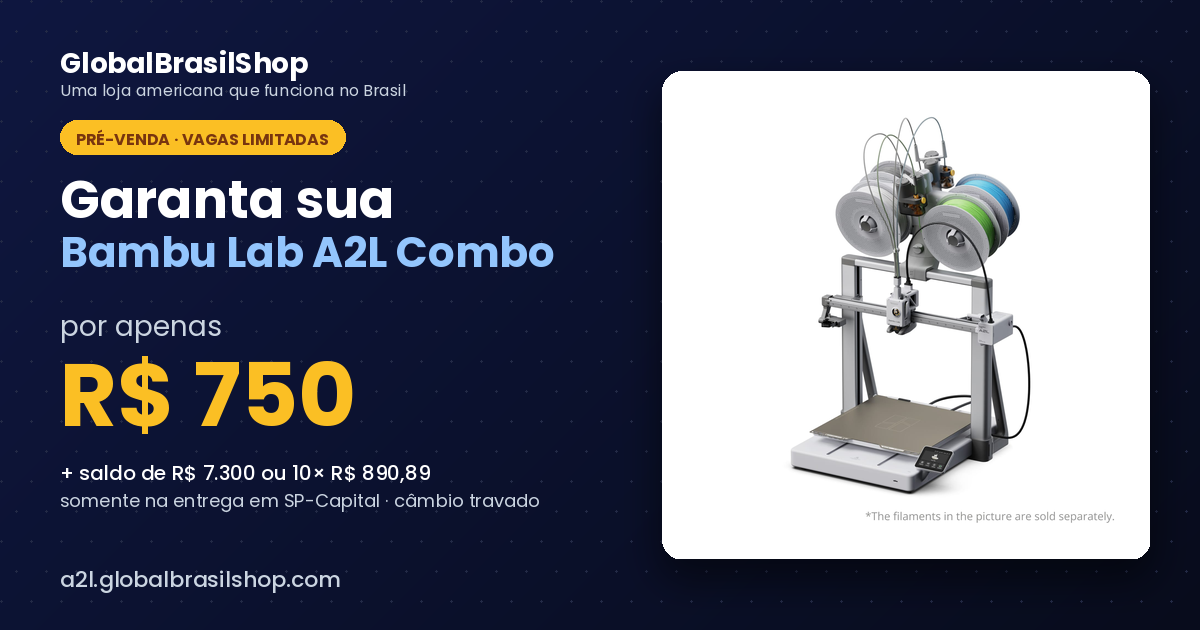
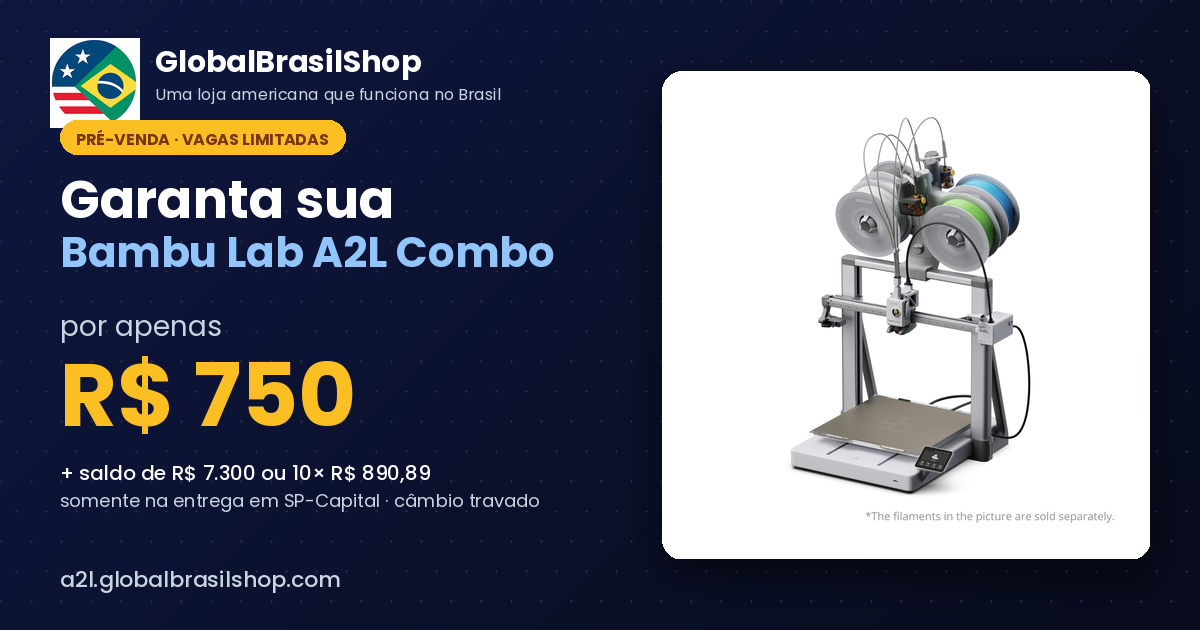
Add files via upload

Changed region(s): [[0.0308, 0.0603, 0.4008, 0.2111]]

diff --git a/index.html b/index.html
@@ -1008,7 +1008,7 @@
           <div class="carousel-stage">
             <img src="a2l_combo.jpg" alt="Bambu Lab A2L Combo com AMS Lite e 4 spools coloridos" class="carousel-slide active" />
             <img src="a2l_main.jpg" alt="Bambu Lab A2L destacando volume gigante 330×320×325 mm" class="carousel-slide" />
-            <img src="a2l_combo.jpg" alt="Sistema dual-nozzle para suportes solúveis e multi-cor limpo" class="carousel-slide" />
+            <img src="a2l_combo.jpg" alt="Volume gigante 330×320×325 mm com qualidade CoreXY em bed slinger" class="carousel-slide" />
             <img src="a2l_blade.jpg" alt="Blade Cutting Module — corte vinyl, couro, tecido (Cricut killer)" class="carousel-slide" />
           </div>
           <button class="carousel-arrow prev" aria-label="Foto anterior" type="button">‹</button>
@@ -1110,28 +1110,28 @@
       </div>
       <div class="feature-card">
         <div class="feature-icon">⚡</div>
-        <h3>Câmara totalmente fechada</h3>
-        <p>Estrutura fechada com vidro frontal — temperatura interna controlada pra imprimir ABS, ASA e materiais de engenharia sem warping. Bonita até pra deixar na sala.</p>
+        <h3>Adaptive Vibration Compensation</h3>
+        <p>Open frame com 2 granular dampers integrados no chassi pra absorver vibração — qualidade de impressão CoreXY em um bed slinger acessível. Pra PLA, PETG e materiais não-engenharia.</p>
       </div>
       <div class="feature-card">
         <div class="feature-icon">🔧</div>
         <h3>Multi-cor com AMS</h3>
-        <p>Compatível com o Sistema Bambu AMS — imprima até 16 cores numa única peça (com 4 unidades AMS conectadas). Troca automática, secagem integrada de filamento.</p>
+        <p>Compatível com até 4 unidades AMS + 1 AMS Lite — máximo de 19 cores simultâneas na mesma peça. O Combo já vem com 1 AMS Lite incluso. Troca automática e detecção de runout/tangled spool.</p>
       </div>
       <div class="feature-card">
         <div class="feature-icon">📐</div>
         <h3>Confiabilidade nível farm</h3>
-        <p>Usada por farms profissionais ao redor do mundo. Estrutura CoreXY robusta, sensores de fim de filamento, monitoramento por câmera integrada. Imprime por dias sem precisar de babá.</p>
+        <p>Pensada pra print farms. Conecte até 4 unidades AMS pra 19 cores simultâneas. Blob detector + PMSM extrusion monitoring + sensores de runout, clog e spool emaranhado — imprime por dias sem babá.</p>
       </div>
       <div class="feature-card">
         <div class="feature-icon">🌐</div>
-        <h3>Volume 256×256×256 mm</h3>
-        <p>Mesa de impressão generosa pra peças funcionais, cosplays, miniaturas em lote e produção de pequenos itens pra venda. Tamanho ideal pro uso doméstico ou maker pro.</p>
+        <h3>Volume gigante 330×320×325 mm</h3>
+        <p>105% mais volume que máquinas 256mm-class. Imprima cosplay props em uma peça só, batches grandes de decoração ou modelos escolares sem dividir e colar.</p>
       </div>
       <div class="feature-card">
         <div class="feature-icon">🛡️</div>
         <h3>Ecossistema Bambu</h3>
-        <p>App Bambu Studio + Bambu Handy (mobile) + Cloud — você manda print do celular, monitora com câmera e recebe notificação quando termina. Integração com MakerWorld pra modelos prontos.</p>
+        <p>App Bambu Studio (desktop) + Bambu Handy (mobile) — você manda print do celular e recebe notificação quando termina. MakerWorld grátis com milhares de modelos prontos. Print-then-Cut OTA chegando pra combinar print + corte numa só ação.</p>
       </div>
     </div>
   </div>
@@ -1143,8 +1143,8 @@
     <div class="showcase-grid">
       <div>
         <span class="section-eyebrow">Multi-cor com AMS</span>
-        <h2 class="section-title" style="text-align:left;">Até 16 cores numa peça só. Sem você levantar da cadeira.</h2>
-        <p style="font-size:17px;color:var(--muted);margin-bottom:24px;">A A2L vem com o sistema AMS (Automatic Material System) já incluso no Combo. Você carrega 4 carretéis e a impressora troca de cor sozinha durante o print. Conecte até 4 unidades AMS pra 16 cores simultâneas. Com a dual-nozzle, a troca é ainda mais limpa — menos purga, melhor acabamento.</p>
+        <h2 class="section-title" style="text-align:left;">Até 19 cores numa peça só. Sem você levantar da cadeira.</h2>
+        <p style="font-size:17px;color:var(--muted);margin-bottom:24px;">A A2L Combo vem com 1× AMS Lite (4 spools) já incluso. Você pode conectar até 4 unidades AMS ou AMS Lite no total — máximo de 19 cores diferentes na mesma peça. Single nozzle com closed-loop servo PMSM pra troca confiável de filamento. Perfeita pra peças coloridas grandes ou print farms.</p>
         <ul class="showcase-list">
           <li><span class="check">✓</span> Troca automática de filamento durante o print, sem intervenção manual</li>
           <li><span class="check">✓</span> Detecção e secagem de umidade integrada — filamento sempre em condição ideal</li>
@@ -1152,7 +1152,7 @@
         </ul>
       </div>
       <div class="showcase-img-wrap">
-        <img src="a2l_blade.jpg" alt="Bambu Lab A2L imprimindo peça multi-cor com 4 toolheads" class="showcase-img" />
+        <img src="a2l_blade.jpg" alt="Blade Cutting Module — corta vinyl, couro e tecido como uma Cricut" class="showcase-img" />
       </div>
     </div>
   </div>
@@ -1168,17 +1168,22 @@
     </div>
 
     <div class="specs-grid">
-      <div class="spec-row"><span class="spec-label">Tecnologia</span><span class="spec-value">FDM CoreXY (câmara fechada)</span></div>
-      <div class="spec-row"><span class="spec-label">Volume de impressão</span><span class="spec-value">256 × 256 × 256 mm</span></div>
-      <div class="spec-row"><span class="spec-label">Velocidade máxima</span><span class="spec-value">500 mm/s · aceleração 20.000 mm/s²</span></div>
-      <div class="spec-row"><span class="spec-label">Estrutura</span><span class="spec-value">Totalmente fechada com vidro frontal</span></div>
-      <div class="spec-row"><span class="spec-label">Materiais suportados</span><span class="spec-value">PLA, PETG, TPU, ABS, ASA, PC (com câmara fechada)</span></div>
-      <div class="spec-row"><span class="spec-label">Multi-cor</span><span class="spec-value">Compatível com AMS · até 16 cores</span></div>
-      <div class="spec-row"><span class="spec-label">Calibração</span><span class="spec-value">100% automática (Lidar + flow + vibration)</span></div>
-      <div class="spec-row"><span class="spec-label">Câmera</span><span class="spec-value">Integrada · timelapse · monitoramento remoto</span></div>
-      <div class="spec-row"><span class="spec-label">Conectividade</span><span class="spec-value">Wi-Fi · Ethernet · Bambu Cloud</span></div>
+      <div class="spec-row"><span class="spec-label">Tecnologia</span><span class="spec-value">FDM bed slinger (open frame) · single nozzle</span></div>
+      <div class="spec-row"><span class="spec-label">Volume de impressão</span><span class="spec-value">330 × 320 × 325 mm · 105% maior que 256mm-class</span></div>
+      <div class="spec-row"><span class="spec-label">Velocidade máxima</span><span class="spec-value">500 mm/s</span></div>
+      <div class="spec-row"><span class="spec-label">Temperatura do bico</span><span class="spec-value">até 300°C</span></div>
+      <div class="spec-row"><span class="spec-label">Temperatura da mesa</span><span class="spec-value">até 80°C</span></div>
+      <div class="spec-row"><span class="spec-label">Sistema de extrusão</span><span class="spec-value">PMSM closed-loop servo · monitoramento de anomalias</span></div>
+      <div class="spec-row"><span class="spec-label">Vibração</span><span class="spec-value">Adaptive multi-point + 2 granular dampers no chassi</span></div>
+      <div class="spec-row"><span class="spec-label">Materiais suportados</span><span class="spec-value">PLA, PETG e demais não-engenharia (open frame não suporta ABS/PC/Nylon)</span></div>
+      <div class="spec-row"><span class="spec-label">Multi-cor</span><span class="spec-value">Até 4× AMS + 1× AMS Lite — máximo 19 cores</span></div>
+      <div class="spec-row"><span class="spec-label">Módulos extras</span><span class="spec-value">Blade Cutting (vinyl, couro, tecido, papel) + Pen Plotter</span></div>
+      <div class="spec-row"><span class="spec-label">Detecção</span><span class="spec-value">Blob detector + filament runout + nozzle clog + tangled spool</span></div>
+      <div class="spec-row"><span class="spec-label">Ruído</span><span class="spec-value">&lt; 49 dB modo silencioso · ~52 dB modo padrão</span></div>
+      <div class="spec-row"><span class="spec-label">Conectividade</span><span class="spec-value">Wi-Fi 2.4G · Bambu Handy app</span></div>
       <div class="spec-row"><span class="spec-label">Slicer</span><span class="spec-value">Bambu Studio + Orca Slicer (open-source)</span></div>
-      <div class="spec-row"><span class="spec-label">Setup</span><span class="spec-value">15 minutos do unboxing à 1ª impressão</span></div>
+      <div class="spec-row"><span class="spec-label">Dimensões externas</span><span class="spec-value">544 × 529 × 505 mm</span></div>
+      <div class="spec-row"><span class="spec-label">Peso</span><span class="spec-value">12,8 kg</span></div>
       <div class="spec-row"><span class="spec-label">Garantia fabricante</span><span class="spec-value">12 meses internacional Bambu Lab</span></div>
     </div>
 
@@ -1311,7 +1316,7 @@
   </div>
 </section>
 
-<!-- CROSS-LINK: VERSÃO H2D -->
+<!-- CROSS-LINK: VERSÃO H2C -->
 <section class="cross-link-section">
   <div class="container">
     <a href="https://h2c.globalbrasilshop.com" class="cross-link-card" target="_blank" rel="noopener">